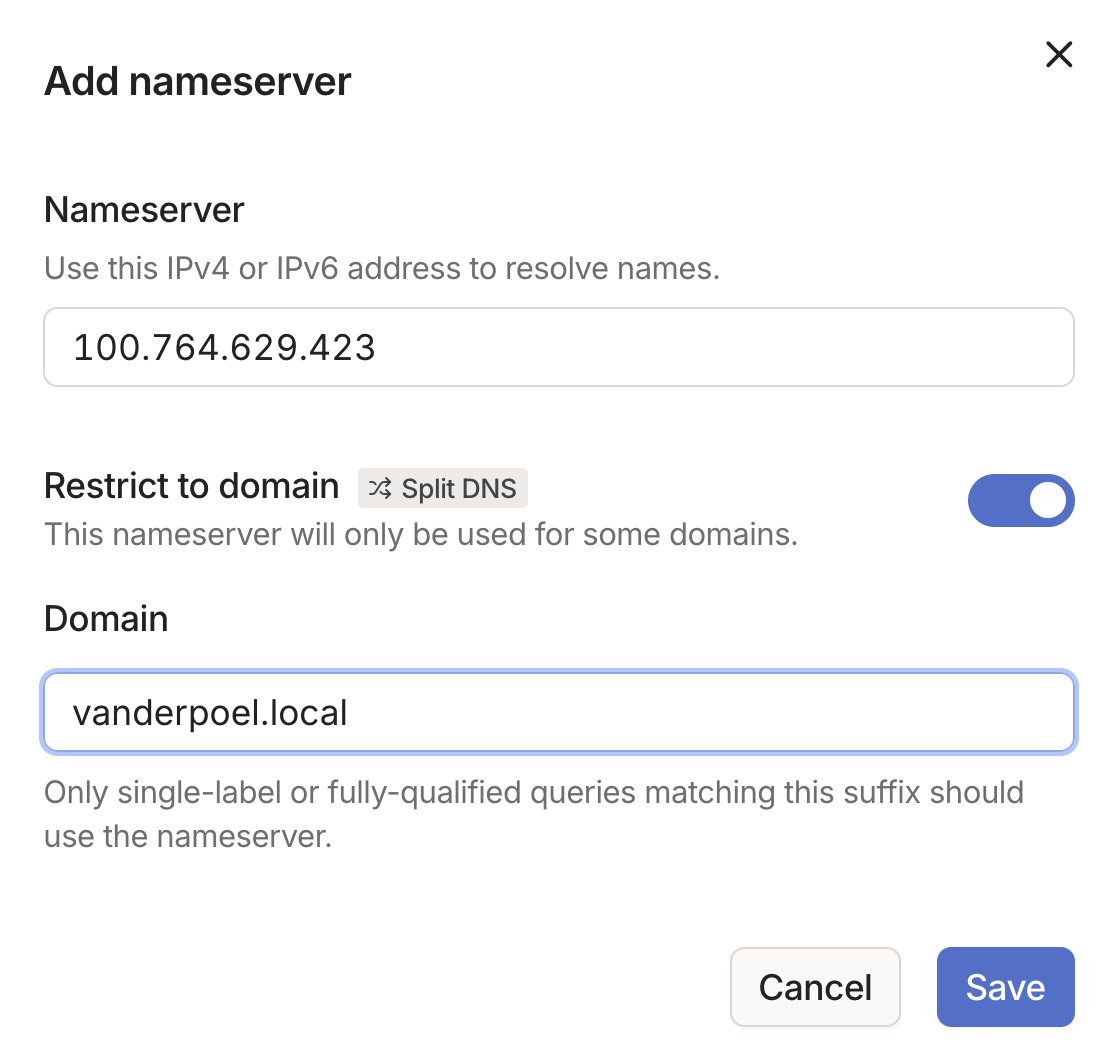
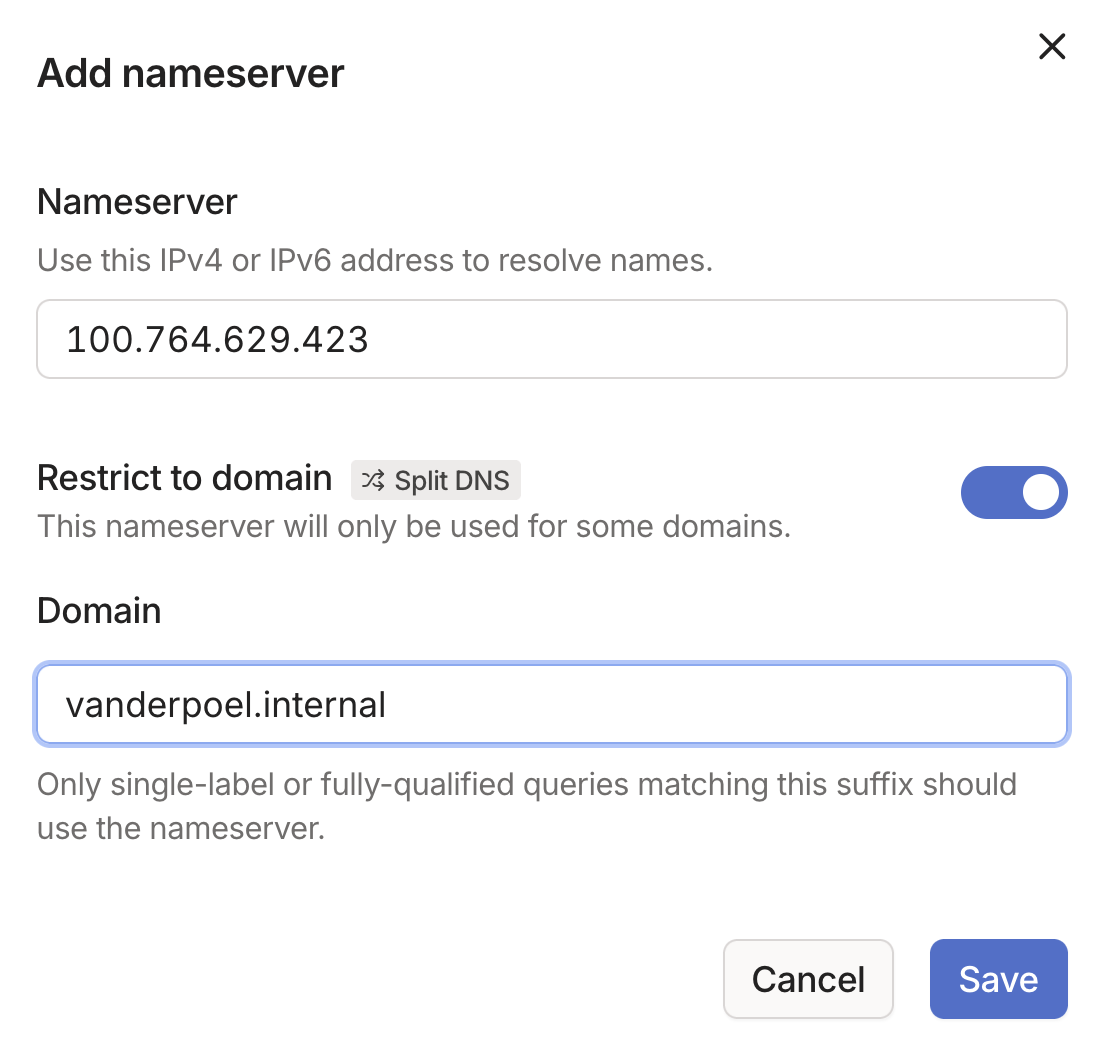
Update .local to .internal

diff --git a/content/articles/local-websites/index.md b/content/articles/local-websites/index.md
@@ -6,11 +6,11 @@ draft: false
 
 ## Motivation
 
-Let's say you have an ubuntu home server that runs some services like Immich, Home Assistant etc. Maybe you also have some internal websites you host. It would be nice if you could access these sites remotely and if they had nice domain names like `immich.vanderpoel.local`, but we don't want expose anything to the public internet. Our goals are therefore:
+Let's say you have an ubuntu home server that runs some services like Immich, Home Assistant etc. Maybe you also have some internal websites you host. It would be nice if you could access these sites remotely and if they had nice domain names like `immich.vanderpoel.internal`, but we don't want expose anything to the public internet. Our goals are therefore:
 
 1. Remotely access any service hosted on our server
 
-2. Access these services via human-readable domain names e.g. `immich.vanderpoel.local`
+2. Access these services via human-readable domain names e.g. `immich.vanderpoel.internal`
 
 3. Do this without exposing these services to the wider internet
 
@@ -66,11 +66,13 @@ We now have Open WebUI running on `http://localhost:3000/` which can be accessed
 
 ## Human-readable domain names
 
-We have now achieved our first goal which is to have remote access to any service hosted on `slippery-server`. In our case we have Open WebUI running at `http://slippery-server.pompous-pufferfish.ts.net:3000/`. The next goal is have this site accessible instead at `https://immich.vanderpoel.local`.
+We have now achieved our first goal which is to have remote access to any service hosted on `slippery-server`. In our case we have Open WebUI running at `http://slippery-server.pompous-pufferfish.ts.net:3000/`. The next goal is have this site accessible instead at `https://immich.vanderpoel.internal`.
 
 ### Local DNS Server
 
-The [Domain Name System (DNS)](https://aws.amazon.com/route53/what-is-dns/) protocol is how we can type `liamvanderpoel.com` into our browser and be routed to the actual IP address where my website is hosted e.g. `37.16.9.210`. This occurs because after I bought my domain name I went to my DNS provider (e.g. Cloudflare, Namecheap, ...) and created DNS records that publicly store this mapping `liamvanderpoel.com` to `37.16.9.210` (i.e. the A, AAAA, CNAME records). We would like the same thing to occur inside our Tailnet where `*vanderpoel.local` points to the `slippery-server` machine.
+The [Domain Name System (DNS)](https://aws.amazon.com/route53/what-is-dns/) protocol is how we can type `liamvanderpoel.com` into our browser and be routed to the actual IP address where my website is hosted e.g. `37.16.9.210`. This occurs because after I bought my domain name I went to my DNS provider (e.g. Cloudflare, Namecheap, ...) and created DNS records that publicly store this mapping `liamvanderpoel.com` to `37.16.9.210` (i.e. the A, AAAA, CNAME records). We would like the same thing to occur inside our Tailnet where `*vanderpoel.internal` points to the `slippery-server` machine.
+
+Note: In my first draft of this article I used `vanderpoel.local`, but this can lead to various issues so I changed it. If you want to go down a bit of a rabbit hole see [Why Using a .local Domain for Internal Networks is a Bad Idea](https://thexcursus.org/why-using-a-local-domain-for-internal-networks-is-a-bad-idea/).
 
 Recall our goal is to access our local services hosted on the `slippery-server` machine. This machine likely doesn't have a publicly reachable ip address, so we can't just buy a new domain and point it to our servers ip address. We also probably don't want to have to buy a new domain name each time we add a new server as we only want these machines to be accessible inside our Tailnet. The solution is to run our own local DNS server to map a domain of our choosing to the private ip address of `slippery-server` inside the Tailnet. We can use any domain name we want, but in practice it make sense not to use a domain already in use as this can lead to confusion if say `google.com` gets remapped to point to a service on one of our local machines.
 
@@ -88,7 +90,7 @@ interface=tailscale0
 bind-dynamic
 
 # Local domain
-address=/vanderpoel.local/100.764.629.423
+address=/vanderpoel.internal/100.764.629.423
 ```
 
 The ip address `100.764.629.423` is that of `slippery-server.pompous-pufferfish.ts.net` and can be found under the `Machines` tab in the admin console. Then restart dnsmasq:
@@ -97,24 +99,24 @@ The ip address `100.764.629.423` is that of `slippery-server.pompous-pufferfish.
 sudo systemctl restart dnsmasq
 ```
 
-We then need to setup [Split DNS](https://tailscale.com/learn/why-split-dns) to route anything ending in `vanderpoel.local` to the `slippery-server` machine. This requires adding a custom nameserver under the `DNS` tab in the admin console where the `Nameserver` the ip address of `slippery-server` i.e. `100.764.629.423` and the domain is `vanderpoel.local`:
+We then need to setup [Split DNS](https://tailscale.com/learn/why-split-dns) to route anything ending in `vanderpoel.internal` to the `slippery-server` machine. This requires adding a custom nameserver under the `DNS` tab in the admin console where the `Nameserver` the ip address of `slippery-server` i.e. `100.764.629.423` and the domain is `vanderpoel.internal`:
 
 ![Split DNS setup in Tailscale admin console](split-dns.png)
 
-We can now test our dns by running `dig anything.vanderpoel.local` on any device in our Tailnet and we should see the request get routed to the `100.764.629.423` ip address:
+We can now test our dns by running `dig anything.vanderpoel.internal` on any device in our Tailnet and we should see the request get routed to the `100.764.629.423` ip address:
 
 ```shell
-> dig anything.vanderpoel.local
+> dig anything.vanderpoel.internal
 [...]
 
 ;; ANSWER SECTION:
-anything.vanderpoel.local. 0   IN      A       100.764.629.423
+anything.vanderpoel.internal. 0   IN      A       100.764.629.423
 [...]
 ```
 
 ### Reverse Proxy
 
-TODO: immich.vanderpoel.local pointing to the immich service is due to reverse proxy like caddy, not due to DNS setup
+TODO: immich.vanderpoel.internal pointing to the immich service is due to reverse proxy like caddy, not due to DNS setup
 
 <!-- ### HTTP to HTTPS
 
